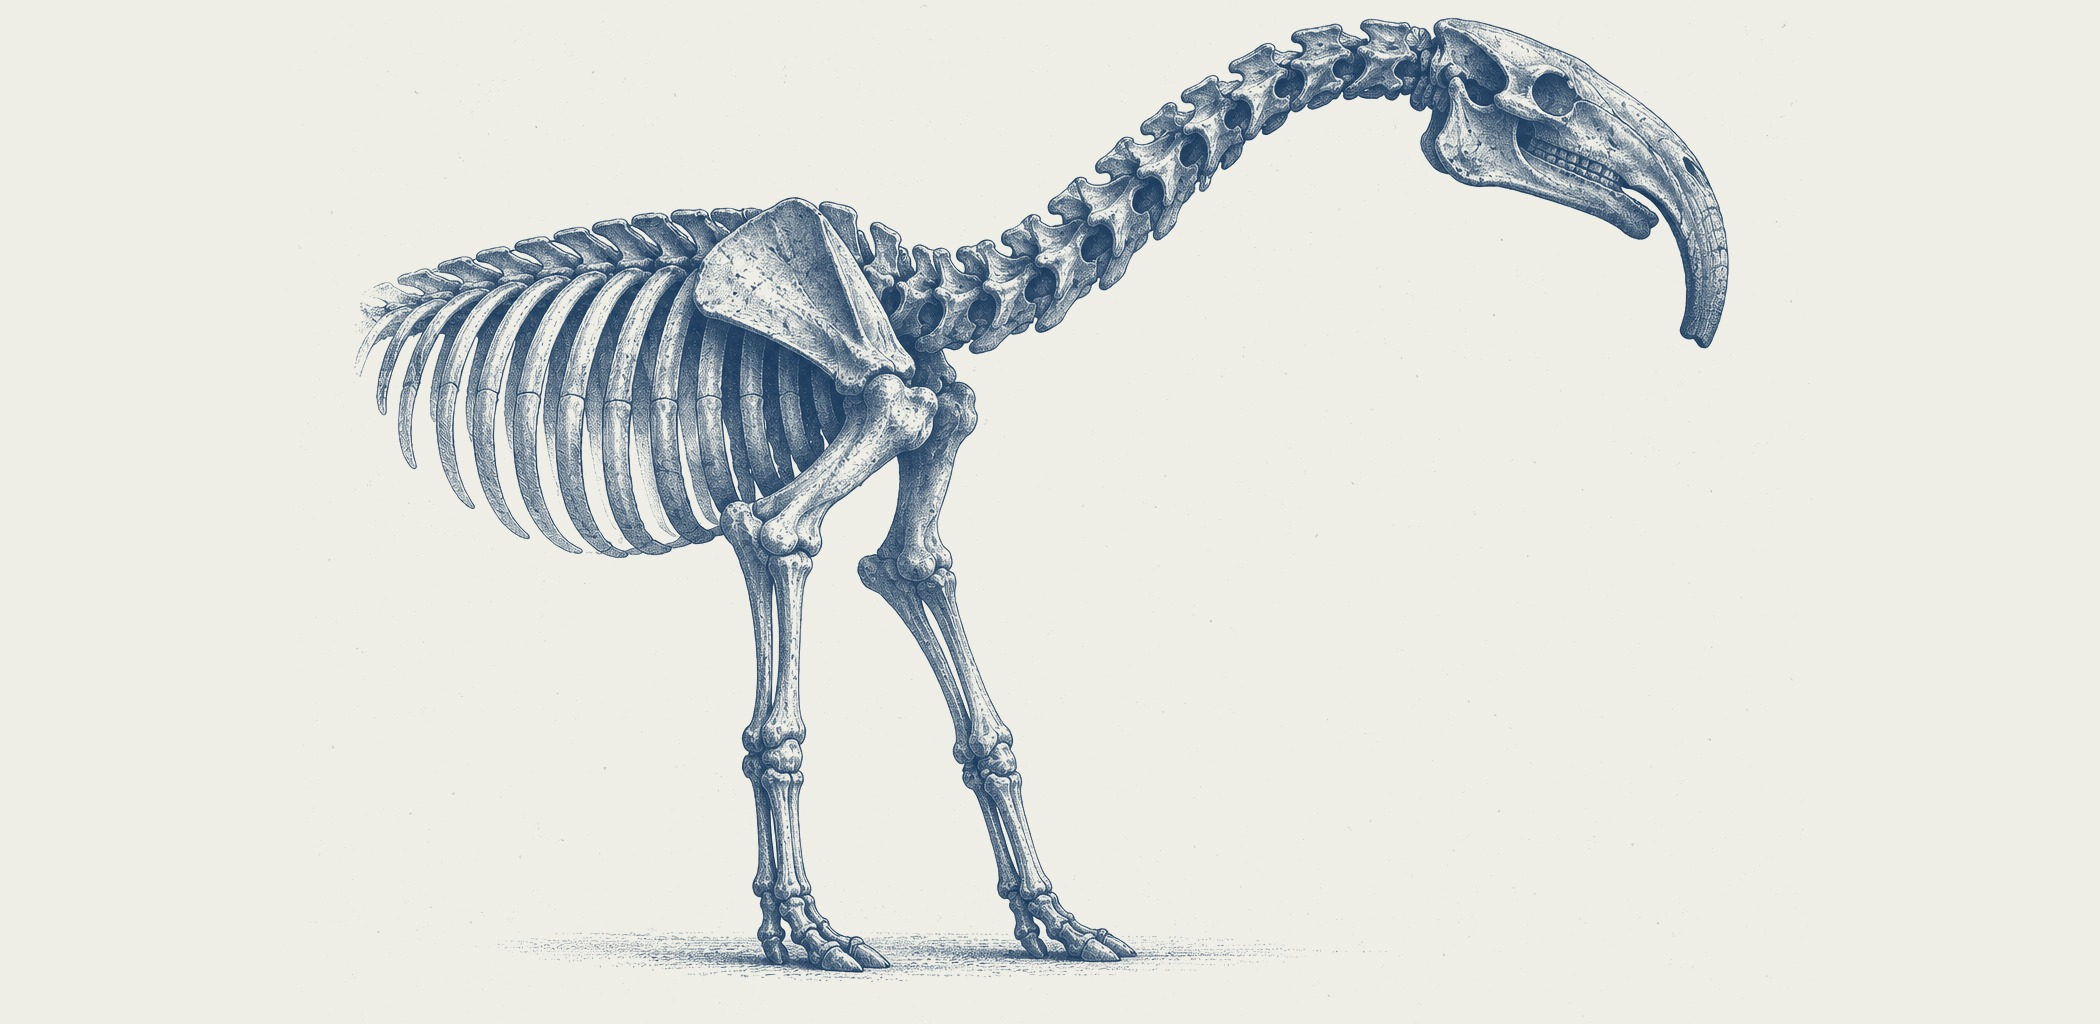
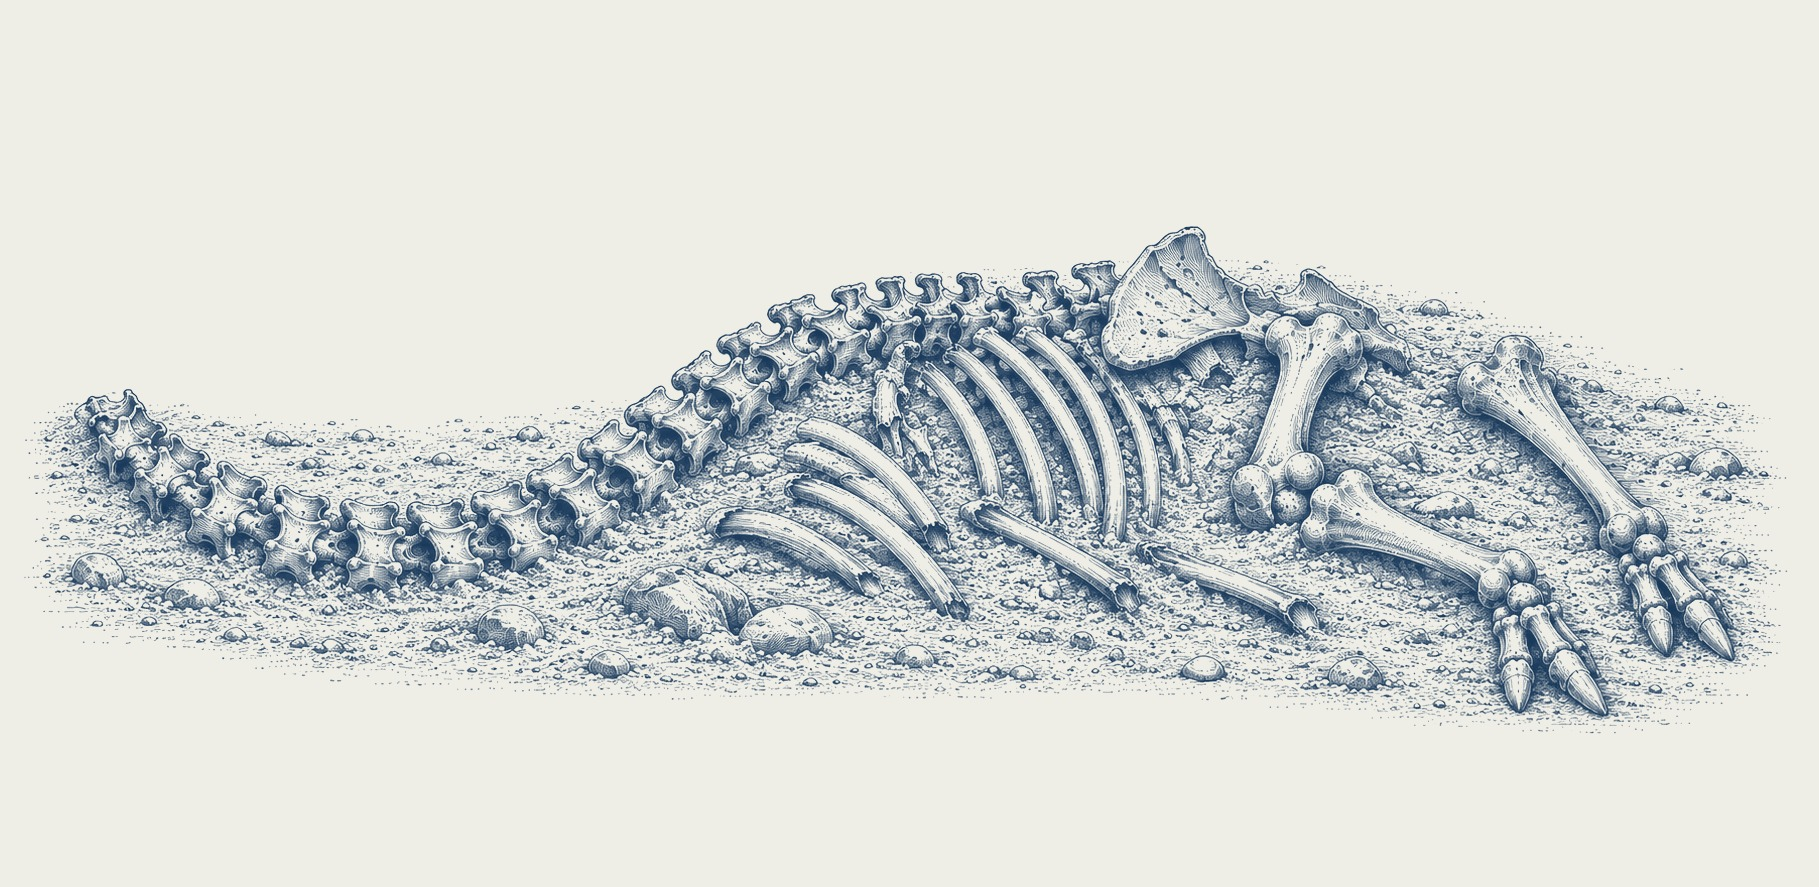
090: Macrauchenia rehecha, medio esqueleto en el suelo y sin cráneo (sin la trompa de hueso)

diff --git a/index.html b/index.html
@@ -2316,7 +2316,7 @@
   <div class="page__box">
     <h1 class="p090__title t-pagetitle">Macrauchenia</h1>
     <p class="p090__text t-darwin body">En Puerto San Julián, en un légamo rojo que cubre la grava de la llanura, de 27 metros de altitud, encontré medio esqueleto del <i>Macrauchenia Patachonica</i>, notable cuadrúpedo, tan grande como un camello. Pertenece a la misma división o grupo de los Paquidermos, junto con el rinoceronte, tapir y <i>Palæotherium</i>, pero en la estructura de los huesos de su largo cuello ofrece una evidente relación con el camello, o más bien con el guanaco y llama. Del hecho de haberse hallado conchas marinas recientes en dos de las más altas llanuras escalonadas, que deben de haberse modelado y levantado antes que se depositara el légamo en que quedó sepultado el <i>Macrauchenia</i>, se colige con certeza que este curioso cuadrúpedo vivió mucho tiempo después de haber estado poblado el mar por sus conchas actuales. En un principio no podía comprender cómo un cuadrúpedo tan corpulento había hallado manera de subsistir en la latitud 49° 15', en estas desoladas llanuras de grava, con su raquítica vegetación; pero la afinidad del <i>Macrauchenia</i> con el guanaco, que ahora habita en las regiones más estériles, explica en parte esa dificultad.</p>
-    <div class="p090__image foto" style="background-image:url(assets/images/090-macrauchenia.jpg?v=8c630892)" role="img" aria-label="medio esqueleto de Macrauchenia Patachonica, con el cuello largo a la vista"></div>
+    <div class="p090__image foto" style="background-image:url(assets/images/090-macrauchenia.jpg?v=58586a4e)" role="img" aria-label="medio esqueleto de Macrauchenia Patachonica, con el cuello largo a la vista"></div>
 
     <svg class="p090__rel diagram" viewBox="0 0 92.34 31.5" aria-hidden="true">
       <circle class="route__dot" cx="46" cy="6" r="1.4"/>

diff --git a/tools/fotos.py b/tools/fotos.py
@@ -58,7 +58,8 @@ files = sorted(glob.glob(os.path.join(SRC, 'Imagen*.png')), key=os.path.getmtime
 assert len(files) == len(FOTOS), f'{len(files)} originales para {len(FOTOS)} cajas'
 
 # Originales regenerados después (no entran en el orden de descarga)
-REEMPLAZOS = {'042': 'tapa-megatherium.webp'}  # Megatherium con el árbol completo
+REEMPLAZOS = {'042': 'tapa-megatherium.webp',  # Megatherium con el árbol completo
+              '090': '090-macrauchenia-suelo.webp'}  # 20 oct. 2026: medio esqueleto en el suelo, sin cráneo (sin la trompa de hueso)
 APARTE = {'012', '013'}  # una sola imagen para la doble: la prepara tools/laminas.py
 
 SOLO = set(__import__('sys').argv[1:])  # py tools/fotos.py 018 022 … rehace solo esas

diff --git a/ASSET_MANIFEST.md b/ASSET_MANIFEST.md
@@ -63,7 +63,7 @@ Estados: pendiente / provisorio / definitivo. Toda imagen generada o reinterpret
 | 082 | Costa de Puerto Deseado | Ilustración generada con ChatGPT (7 oct. 2026) a partir de las referencias de estilo del proyecto: paisaje horizontal, ría y llanura; cianotipo apaisado, 210 × 55 mm + sangrado | `assets/images/084-puerto-deseado.jpg` (original en `assets/images/originales/`; se regenera con `py tools/fotos.py`) | colocada; resolución de 186 a 264 ppp en las imágenes a sangre |
 | 084 | Guanaco | Ilustración generada con ChatGPT (7 oct. 2026) a partir de las referencias de estilo del proyecto: de pie sobre la meseta; rebaño lejano; cianotipo apaisado, 92 × 31,5 mm | `assets/images/086-guanaco.jpg` (original en `assets/images/originales/`; se regenera con `py tools/fotos.py`) | colocada; resolución de 186 a 264 ppp en las imágenes a sangre |
 | 086 | Puerto San Julián | Ilustración generada con ChatGPT (7 oct. 2026) a partir de las referencias de estilo del proyecto: bahía amplia, costas áridas, el Beagle anclado; cianotipo vertical, 102 × 148 mm + sangrado | `assets/images/088-san-julian.jpg` (original en `assets/images/originales/`; se regenera con `py tools/fotos.py`) | colocada; resolución de 186 a 264 ppp en las imágenes a sangre |
-| 090 | Macrauchenia Patachonica | Ilustración generada con ChatGPT (7 oct. 2026) a partir de las referencias de estilo del proyecto: medio esqueleto, cuello largo; lámina de época, 92 × 45 mm | `assets/images/092-macrauchenia.jpg` (original en `assets/images/originales/`; se regenera con `py tools/fotos.py`) | colocada; resolución de 186 a 264 ppp en las imágenes a sangre |
+| 090 | Macrauchenia Patachonica | Ilustración generada con ChatGPT (rehecha el 20 oct. 2026, con la referencia de estilo del Megatherium): medio esqueleto tendido en el légamo sobre la grava, sin cráneo (como el hallazgo de Darwin; la versión anterior tenía una trompa de hueso, que no existe: era cartílago), cuello articulado, patas de tres dedos; lámina, 92 × 45 mm | `assets/images/090-macrauchenia.jpg` (original `assets/images/originales/090-macrauchenia-suelo.webp`; se regenera con `py tools/fotos.py`) | colocada; resolución de 186 a 264 ppp en las imágenes a sangre |
 | 094 | Sirga en el Santa Cruz | Ilustración generada con ChatGPT (7 oct. 2026) a partir de las referencias de estilo del proyecto: hombres tirando de los botes desde la ribera; cianotipo apaisado, 92 × 40,5 mm | `assets/images/096-sirga.jpg` (original en `assets/images/originales/`; se regenera con `py tools/fotos.py`) | colocada; resolución de 186 a 264 ppp en las imágenes a sangre |
 | 102 | Créditos de imágenes | Cuatro rubros: imágenes (todas generadas con ChatGPT, incluidos mockups y flores; 006, 010 y 019 hechas primero para el mapa digital), mapas (Natural Earth), esquemas, tipografías | (en `pages/102.html`) | **colocada** (15 oct. 2026) |
 | 103 | QR del mapa digital | Código QR entregado por el usuario (12 oct. 2026), vectorizado en las dos tintas | assets/images/qr-mapa-digital.svg (original en originales/) | **colocada** |

diff --git a/BOOK_PROGRESS.md b/BOOK_PROGRESS.md
@@ -563,3 +563,5 @@ Se reemplazaron los 39 recuadros de imagen pendiente por ilustraciones generadas
 - 2026-10-15 · 102 (pedido de Patricio): todas las imágenes se acreditan como generadas con ChatGPT, incluidos los mockups de 005 y la flor de ceibo de 007; quedan cuatro rubros (imágenes, mapas, esquemas, tipografías). Rótulo y lista van juntos y terminan con la caja.
 - 2026-10-15 · 102 (pedido de Patricio): el rótulo pasa a «Créditos», a 11 pt (los rótulos van a 9); en «Imágenes» se quita «No son imágenes de época. Las de 006, 010 y 019 se hicieron primero para el mapa digital.»
 - 2026-10-15 · 008 (pedido de Patricio): número de parada y número de página distintos. Parada: cifra grande en Playfair 18 pt (como en las aperturas), en los dos renglones de la fila; página: Inter regular precedida de «p.», a la derecha. Solo CSS (styles/aperturas.css): sigue bloqueada.
+
+- [2026-10-20] 090: Macrauchenia rehecha. La anterior tenía una trompa de hueso (era cartílago, no se conserva). Nueva ilustración de ChatGPT: medio esqueleto en el suelo, semienterrado en el légamo sobre la grava, sin cráneo, como lo encontró Darwin. Original 090-macrauchenia-suelo.webp (REEMPLAZOS en tools/fotos.py). Solo cambió la imagen: la página no cambia.
